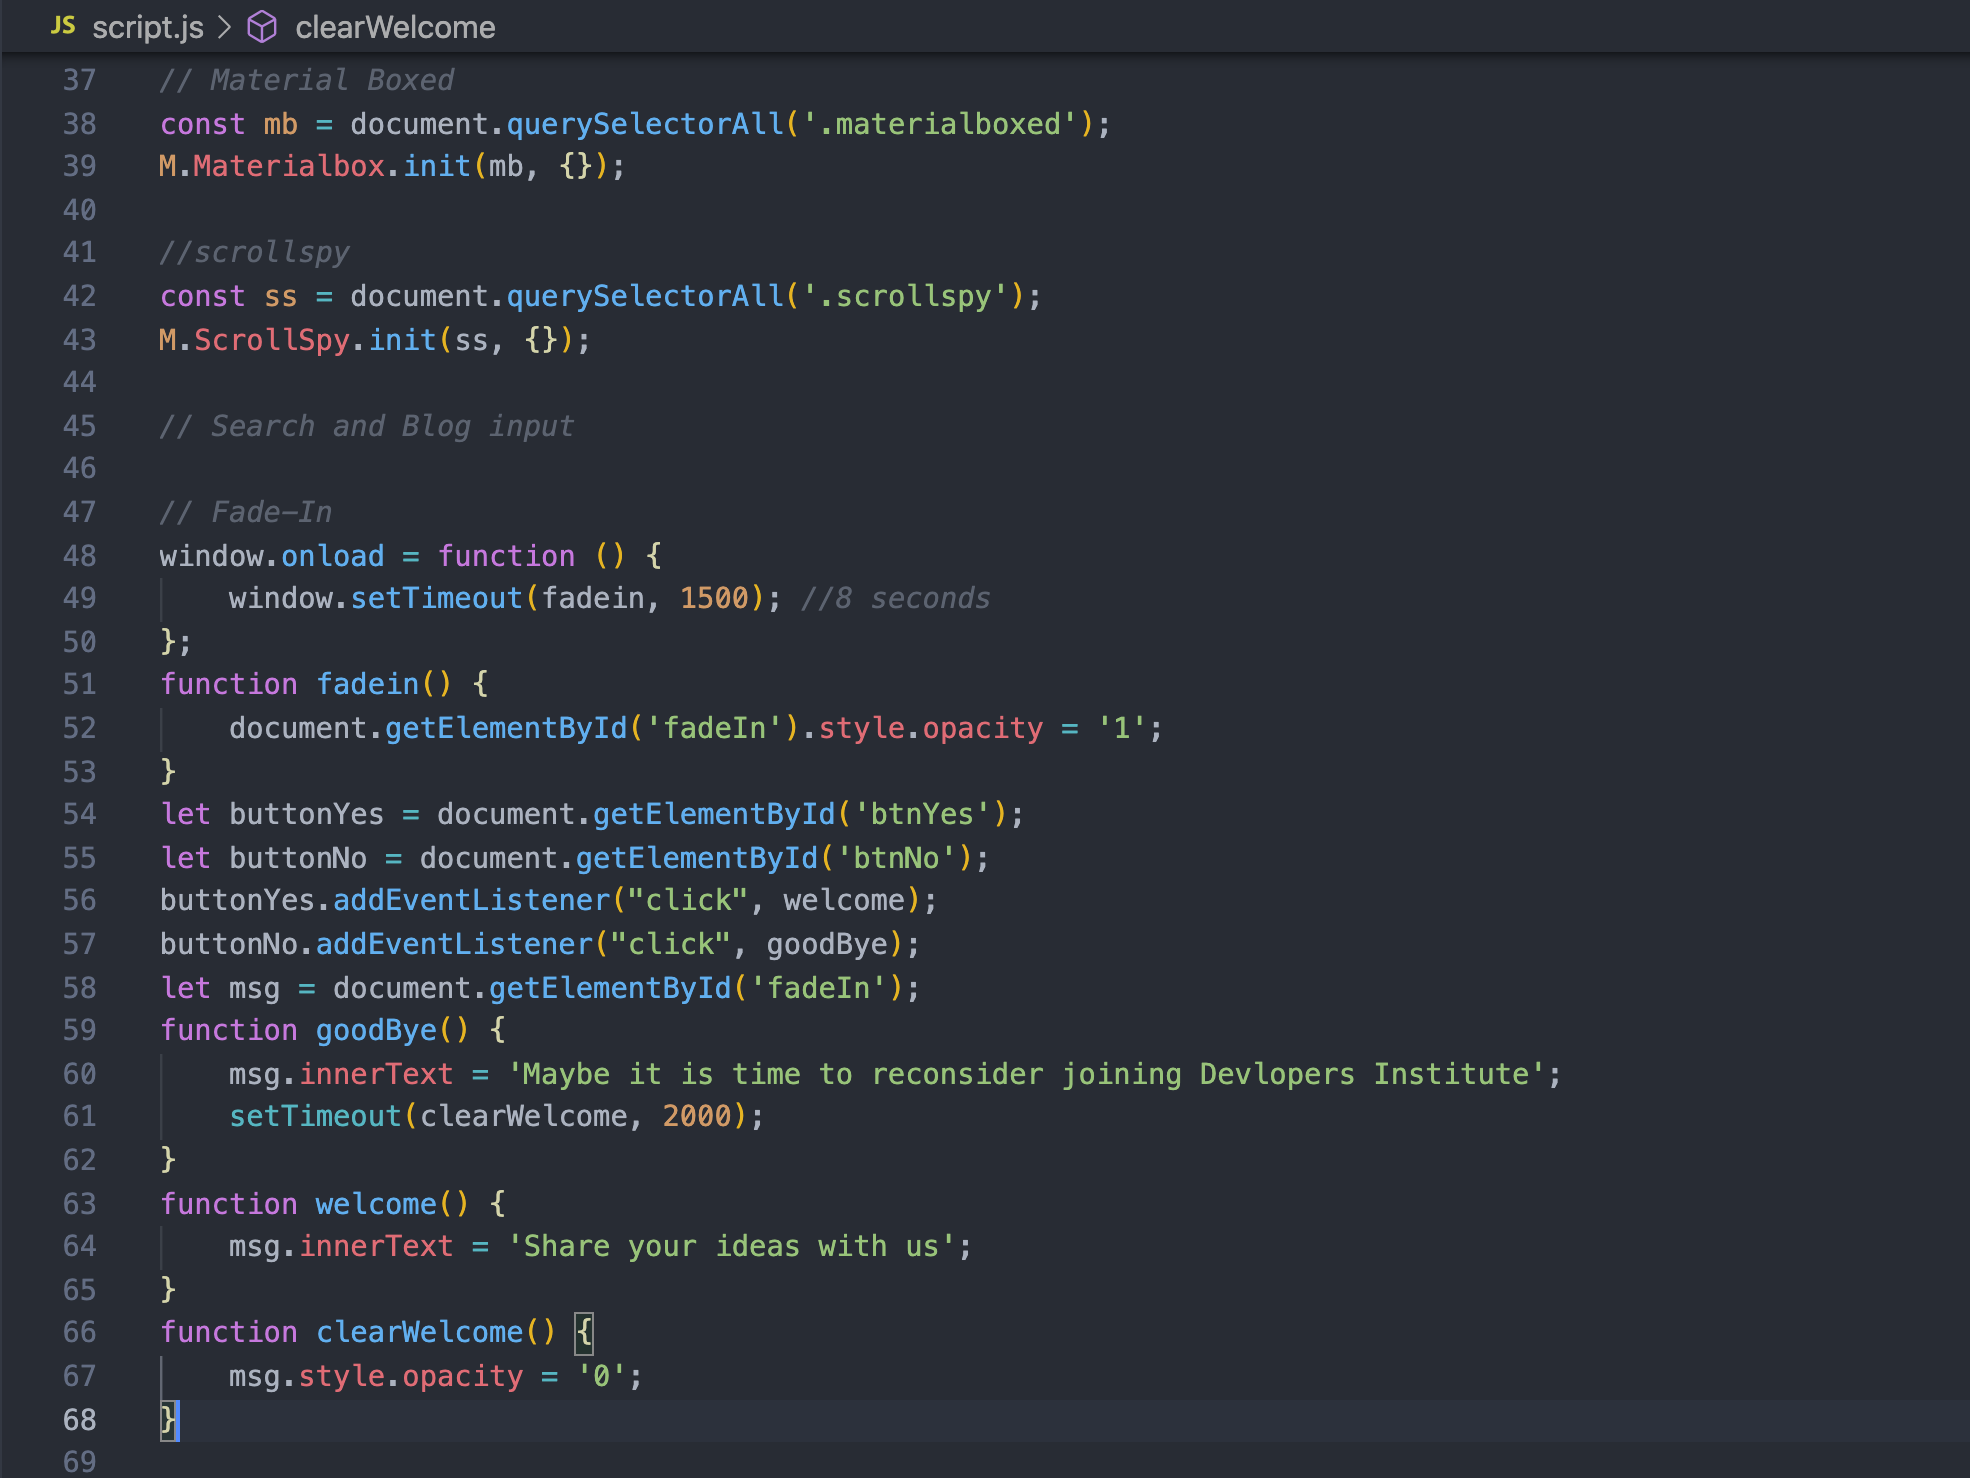
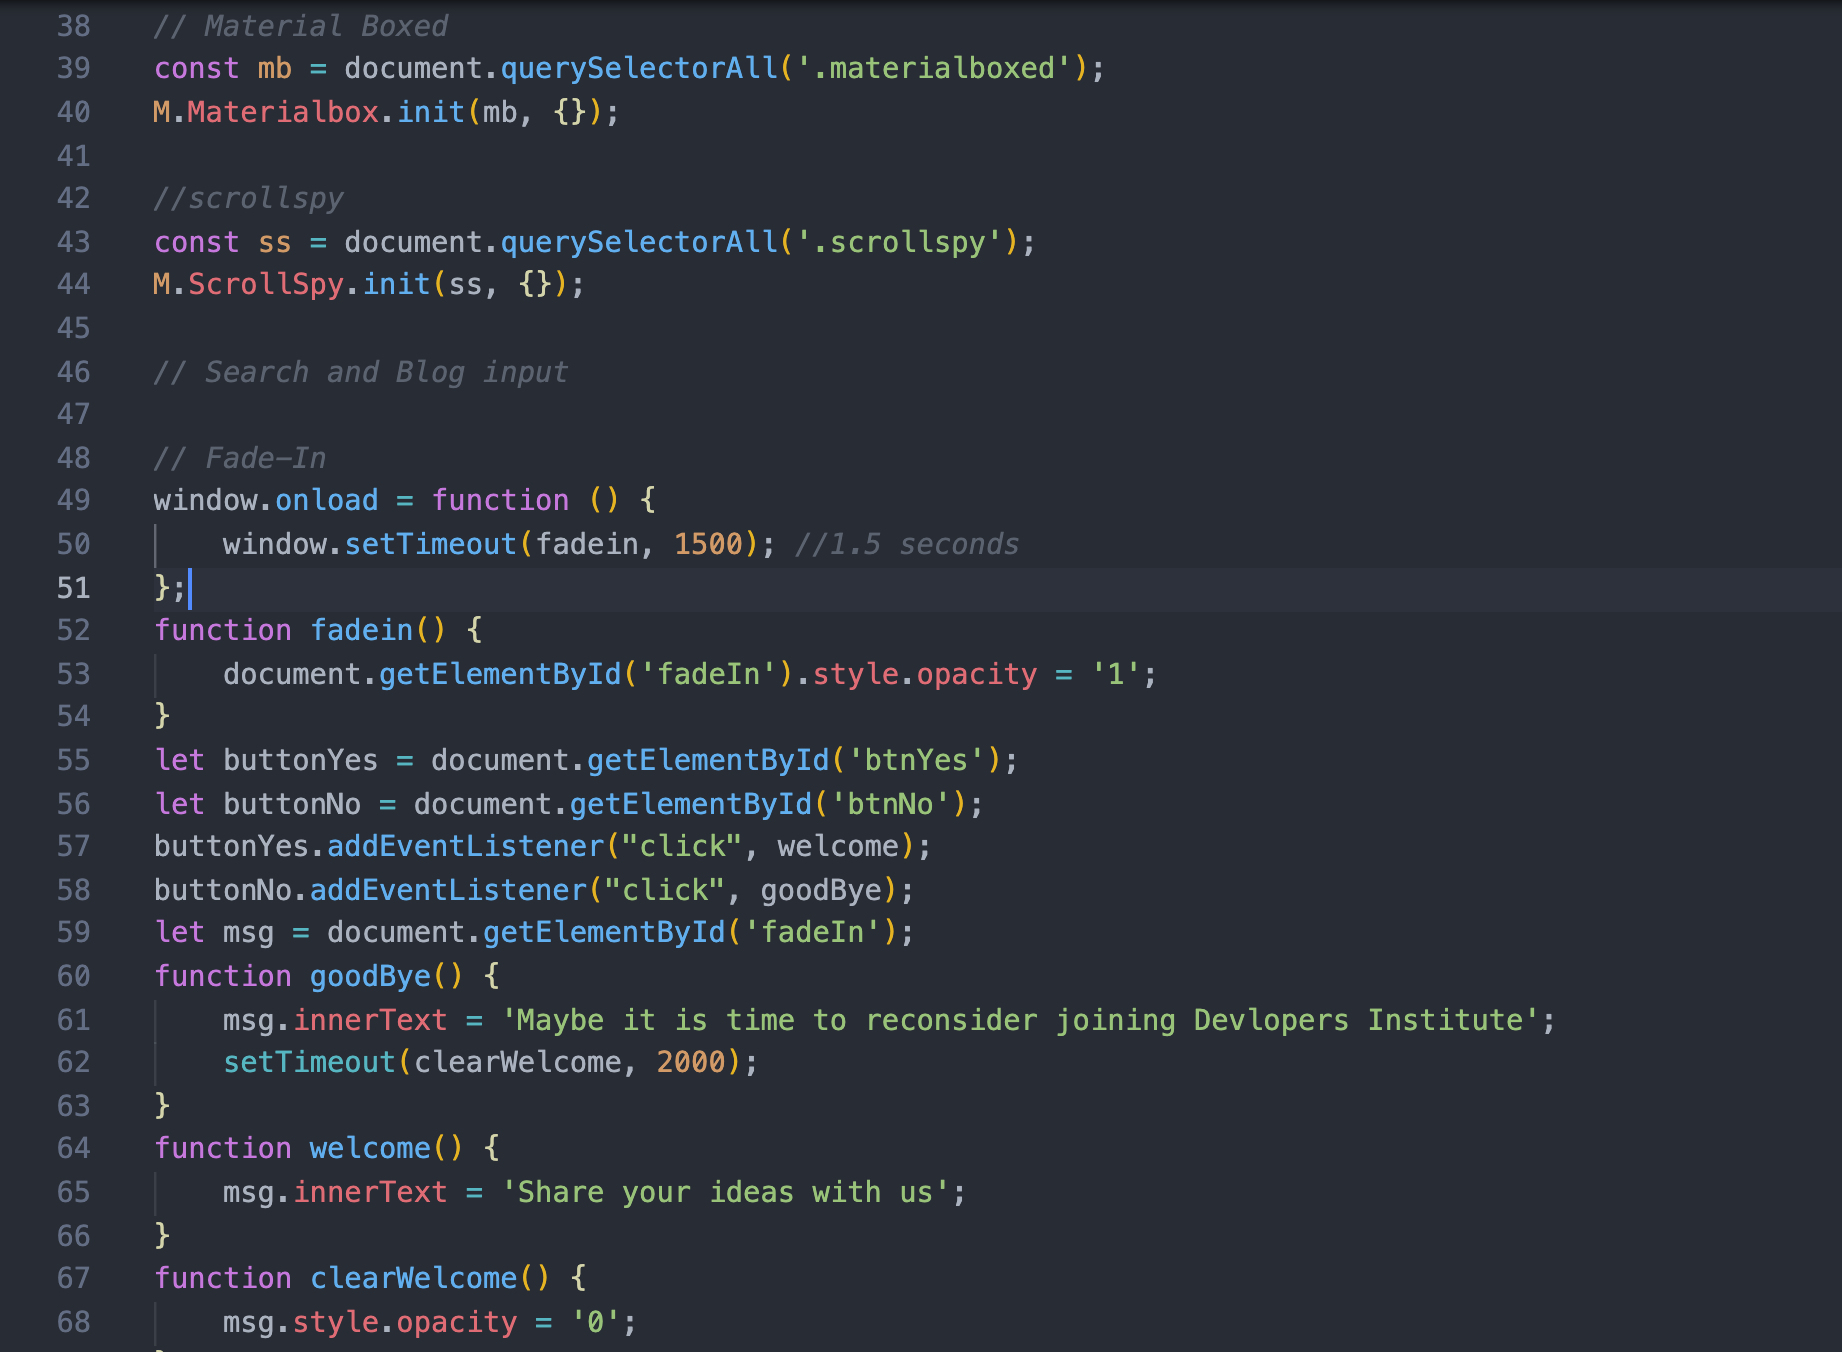
css description change

Changed region(s): [[0.0309, 0.0, 0.8355, 1.0], [0.4332, 0.4038, 0.4951, 0.4349], [0.3094, 0.963, 0.3404, 0.9941]]

diff --git a/Reworked/script.js b/Reworked/script.js
@@ -47,7 +47,7 @@ M.ScrollSpy.init(ss, {});
 
 // Fade-In
 window.onload = function () {
-    window.setTimeout(fadein, 1500); //8 seconds
+    window.setTimeout(fadein, 1500); //1.5 seconds
 };
 function fadein() {
     document.getElementById('fadeIn').style.opacity = '1';
